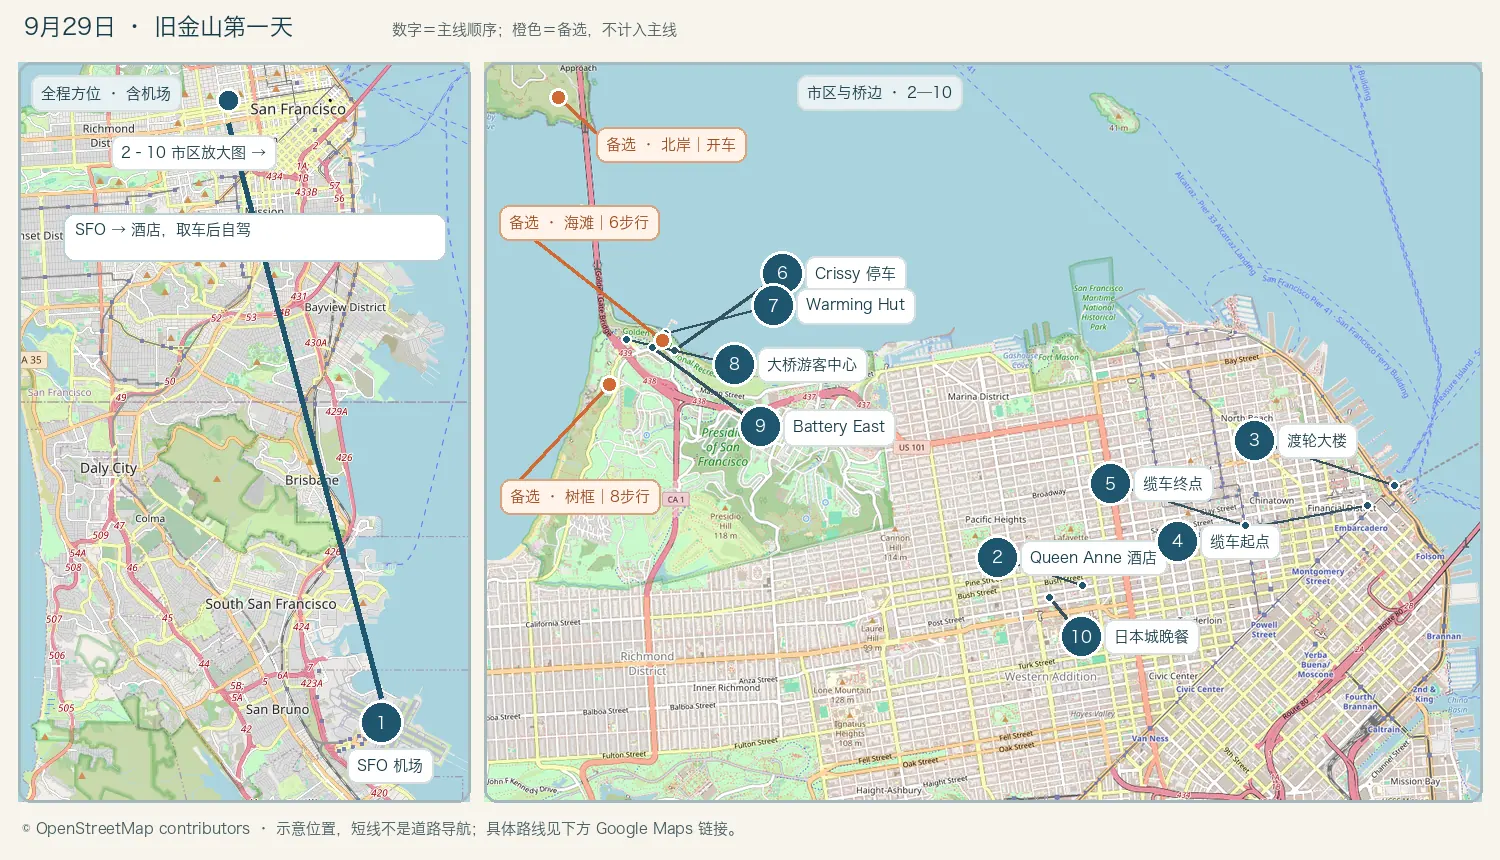
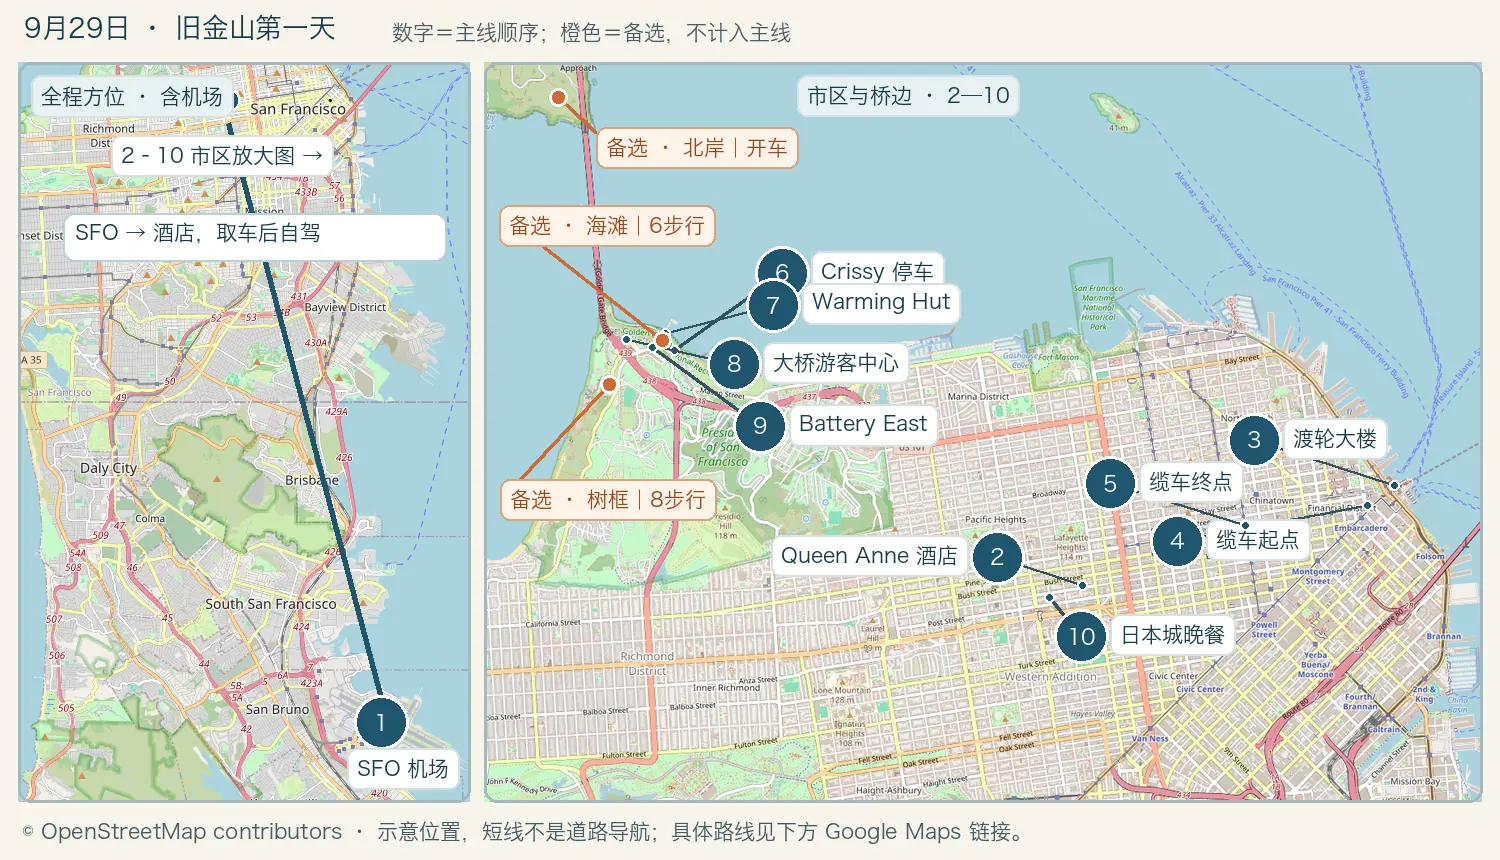
Improve first two route maps on mobile

diff --git a/sf-day2-route.js b/sf-day2-route.js
@@ -47,7 +47,7 @@
   guide.id = 'sf-day2-map';
   guide.setAttribute('aria-label', '九月三十日交通总览与 Google 地图导航');
   guide.innerHTML = `<div class="sf-route-head"><div><h4>第二天 · 地图与交通顺序</h4><p>酒店退房 → Stanford → Palo Alto 午餐 → Apple → Paso Robles 休息 → Cambria 酒店、海边和晚餐。全天自驾，酒店至海边可步行。</p></div></div>
-    <figure class="sf-route-map"><a href="assets/sf-day2-route-map.webp?v=20260924-google-option" target="_blank" rel="noopener" aria-label="放大第二天路线总览图"><img src="assets/sf-day2-route-map.webp?v=20260924-google-option" width="1500" height="860" loading="lazy" decoding="async" alt="9月30日从旧金山到坎布里亚的1至8号站点位置；硅谷和坎布里亚另有放大图；橙色G为可选Google游客区"></a><figcaption>1—8 按抵达顺序；橙色 G 是可选 Google Visitor Experience，不纳入固定时间表。线只表示方位，不是实际道路。</figcaption></figure>
+    <figure class="sf-route-map"><a class="sf-route-desktop-map" href="assets/sf-day2-route-map.webp?v=20260927-readable" target="_blank" rel="noopener" aria-label="放大第二天桌面路线图"><img src="assets/sf-day2-route-map.webp?v=20260927-readable" width="1500" height="860" loading="lazy" decoding="async" alt="9月30日从旧金山到坎布里亚的1至8号站点位置；硅谷和坎布里亚另有放大图；橙色G为可选Google游客区"></a><a class="sf-route-mobile-map" href="assets/sf-day2-route-mobile.webp?v=20260927-readable" target="_blank" rel="noopener" aria-label="放大第二天手机路线图"><img src="assets/sf-day2-route-mobile.webp?v=20260927-readable" width="750" height="1390" loading="lazy" decoding="async" alt="9月30日手机分段地图：全程、硅谷和坎布里亚；橙色 G 是可选 Google 游客区"></a><figcaption>手机版把相邻点合并标记，名称见下方列表。橙色 G 是可选 Google Visitor Experience；直线只示方位，具体导航用下方链接。</figcaption></figure>
     <ol class="sf-route-stops" aria-label="第二天站点顺序">${stops.map(([number, name, query]) => `<li><span class="sf-route-letter">${number}</span><a href="${search(query)}" target="_blank" rel="noopener">${name} ↗</a></li>`).join('')}</ol>
     <div class="sf-day2-choice"><h5>Apple 后现场二选一</h5><div class="sf-day2-choice-grid"><div class="sf-day2-choice-card"><b>A · 按原路线直行</b><p>Apple → Target Paso Robles（第 5 站）。给 Cambria 入住和海边留出更多余量。</p><a href="${directions(apple, target)}" target="_blank" rel="noopener">打开直达导航 ↗</a></div><div class="sf-day2-choice-card optional"><b>B · 途经 Google</b><p>Apple → Google Visitor Experience → Target Paso Robles。Google 在 Apple 北面，需要折返；若已晚于计划离开 Apple 的 12:40，优先 A。</p><a href="${directions(apple, target, google)}" target="_blank" rel="noopener">打开经 Google 导航 ↗</a></div></div><p>两个链接终点都是第 5 站 Target；从 Target 到酒店用下方 5→6 链接。若实际为 Tesla，Paso Robles 休息点改用车载导航选择超充，不能把 Target 当充电站。</p></div>
     <div class="sf-route-links"><h5>其余分段导航</h5><div class="segments">${legs.map(([name, url]) => `<a href="${url}" target="_blank" rel="noopener">${name} ↗</a>`).join('')}</div><p class="sf-route-caveat">Google 官方游客区：2000 N Shoreline Blvd，周三商店 09:00—19:00，咖啡厅／其他游客空间 09:00—18:00；免费停车可选 Shoreline Amphitheatre Lot C，步行约 4 分钟，演出日 Lot C 可能关闭。此处是开放游客空间，不是员工办公园区参观。<a href="${search(googleParking)}" target="_blank" rel="noopener">停车地图 ↗</a> <a href="https://visit.withgoogle.com/plan-your-visit/" target="_blank" rel="noopener">Google 官方信息 ↗</a></p></div>`;

diff --git a/sf-day1-route.js b/sf-day1-route.js
@@ -58,7 +58,7 @@
   guide.id = 'sf-day1-map';
   guide.setAttribute('aria-label', '旧金山落地日交通总览与 Google 地图导航');
   guide.innerHTML = `<div class="sf-route-head"><div><h4>第一天 · 地图与交通顺序</h4><p>机场至市区先取车，市中心改用网约车与缆车，傍晚再自驾去金门大桥。</p></div></div>
-    <figure class="sf-route-map"><a href="assets/sf-day1-route-map.webp?v=20260927-photo-geo" target="_blank" rel="noopener" aria-label="放大第一天路线总览图"><img src="assets/sf-day1-route-map.webp?v=20260927-photo-geo" width="1500" height="860" loading="lazy" decoding="async" alt="旧金山第一天 1 至 10 号主线站点，以及海滩、Golden Gate Overlook、Battery Spencer 等橙色备选标记"></a><figcaption>1—10 为主线顺序；橙色标记为备选。海滩与 Golden Gate Overlook 从已有停车点步行，Battery Spencer 须过桥并重新停车。图只示意位置，导航用下方分段链接。</figcaption></figure>
+    <figure class="sf-route-map"><a class="sf-route-desktop-map" href="assets/sf-day1-route-map.webp?v=20260927-readable" target="_blank" rel="noopener" aria-label="放大第一天桌面路线图"><img src="assets/sf-day1-route-map.webp?v=20260927-readable" width="1500" height="860" loading="lazy" decoding="async" alt="旧金山第一天 1 至 10 号主线站点，以及海滩、Golden Gate Overlook、Battery Spencer 等橙色备选标记"></a><a class="sf-route-mobile-map" href="assets/sf-day1-route-mobile.webp?v=20260927-readable" target="_blank" rel="noopener" aria-label="放大第一天手机路线图"><img src="assets/sf-day1-route-mobile.webp?v=20260927-readable" width="750" height="1420" loading="lazy" decoding="async" alt="旧金山第一天手机分段地图：机场、市区和桥边；蓝色编号为主线，橙色 A、B、C 为拍照备选"></a><figcaption>手机版把相邻点合并标记，名称见下方列表。橙色 A 海滩从 6 步行，B 树框大桥从 8 步行，C Battery Spencer 需开车过桥并重新停车。直线只示方位。</figcaption></figure>
     <div class="sf-route-key"><span style="--swatch:#2876b7"><i></i>网约车</span><span style="--swatch:#218278"><i></i>自驾</span><span style="--swatch:#dc7138"><i></i>步行</span><span style="--swatch:#8051a8"><i></i>缆车</span></div>
     <ol class="sf-route-stops" aria-label="第一天站点顺序">${stops.map(([number, name, query, short]) => `<li><span class="sf-route-letter">${number}</span><a href="${mapSearch(query)}" target="_blank" rel="noopener" aria-label="${number} ${name.replaceAll('&', '&amp;')} 的地图">${short} ↗</a></li>`).join('')}</ol>
     <div class="sf-route-links"><h5>分段打开 Google Maps</h5><div class="segments">${legs.map(([name, url]) => `<a href="${url.replaceAll('&', '&amp;')}" target="_blank" rel="noopener">${name} ↗</a>`).join('')}<a href="https://www.sfmta.com/routes/california-cable-car" target="_blank" rel="noopener">缆车官方线路 ↗</a></div><p class="sf-route-caveat">10:30 为现有路书的计划落地时间，尚未核到两人的电子客票。入境、取车和路况会改变后续时间；若晚到，先删室内逛店，再删缆车与 Warming Hut。Google Maps 的公交方案未必固定显示缆车，乘车以前往 SFMTA 实时信息为准。</p></div>`;

diff --git a/sf-day1-route.css b/sf-day1-route.css
@@ -1,17 +1,18 @@
 .sf-route-guide{margin:16px 0 22px;border:1px solid var(--line);border-radius:18px;overflow:hidden;background:#fffefa;box-shadow:0 4px 18px rgba(20,37,54,.04)}
 .sf-route-head{display:flex;justify-content:space-between;gap:16px;padding:17px 19px 10px;align-items:start}
-.sf-route-head h4{font-size:20px;margin:0 0 4px}.sf-route-head p{font-size:13px;color:var(--muted);margin:0}
+.sf-route-head h4{font-size:20px;margin:0 0 4px}.sf-route-head p{font-size:14px;color:var(--muted);margin:0}
 .sf-route-map{margin:0}.sf-route-map img{display:block;width:100%;height:auto;background:#dfebe7}
-.sf-route-map figcaption{padding:8px 16px;font-size:11px;color:var(--muted);border-bottom:1px solid var(--line)}
+.sf-route-mobile-map{display:none}
+.sf-route-map figcaption{padding:10px 16px;font-size:13px;line-height:1.55;color:var(--muted);border-bottom:1px solid var(--line)}
 .sf-route-key{display:flex;flex-wrap:wrap;gap:8px 18px;padding:11px 18px;font-size:12px;color:var(--muted);border-bottom:1px solid var(--line)}
 .sf-route-key span{display:inline-flex;align-items:center;gap:6px}.sf-route-key i{width:12px;height:4px;border-radius:3px;background:var(--swatch)}
 .sf-route-stops{list-style:none;margin:0;padding:10px 18px;display:flex;flex-wrap:wrap;gap:7px;border-bottom:1px solid var(--line)}
 .sf-route-stops li{display:inline-flex;align-items:center;gap:6px;padding:3px 9px 3px 3px;border:1px solid #d6e0e1;border-radius:999px;background:#fff;white-space:nowrap}
-.sf-route-letter{width:23px;height:23px;border-radius:50%;background:#183b4a;color:#fff;font-size:11px;font-weight:800;display:grid;place-items:center}
-.sf-route-stops a{font-size:12px;font-weight:700}
+.sf-route-letter{width:25px;height:25px;border-radius:50%;background:#183b4a;color:#fff;font-size:13px;font-weight:800;display:grid;place-items:center}
+.sf-route-stops a{font-size:14px;font-weight:700}
 .sf-route-stops a,.sf-route-links a{color:#285e80;text-decoration:underline;text-underline-offset:2px}
 .sf-route-links{padding:15px 18px 18px;background:#f6f5ef}.sf-route-links h5{margin:0 0 9px;font-size:13px}.sf-route-links .segments{display:flex;flex-wrap:wrap;gap:8px}.sf-route-links .segments a{display:inline-block;padding:6px 10px;border:1px solid #cbd9db;border-radius:999px;background:#fff;text-decoration:none;font-size:12px;font-weight:700}
 .sf-route-caveat{font-size:12px;color:#785b32;margin:11px 0 0}
 .sf-route-optional{margin:0 18px 17px;border:1px solid #d8e0e2;border-radius:12px;background:#f4f8f7;padding:11px 13px}
 .sf-route-optional summary{cursor:pointer;font-size:13px;font-weight:800}.sf-route-optional p{font-size:12px;color:var(--muted);margin:8px 0}.sf-route-optional a{font-size:12px;color:#285e80;text-underline-offset:2px}.sf-route-optional .segments{display:flex;flex-wrap:wrap;gap:7px 13px}
-@media(max-width:700px){.sf-route-head{display:block}.sf-route-stops{padding:9px 12px;gap:6px}.sf-route-stops li{padding:2px 8px 2px 2px}}
+@media(max-width:700px){.sf-route-head{display:block}.sf-route-desktop-map{display:none}.sf-route-mobile-map{display:block}.sf-route-stops{padding:9px 12px;gap:6px}.sf-route-stops li{padding:3px 9px 3px 3px}}

diff --git a/index.html b/index.html
@@ -7,8 +7,8 @@
   <meta name="theme-color" content="#12283a">
   <title>2026 美国蜜月之旅</title>
   <link rel="stylesheet" href="dining-plan.css">
-  <link rel="stylesheet" href="sf-day1-route.css?v=20260924-compact">
-  <link rel="stylesheet" href="sf-day2-route.css?v=20260924-google-option">
+  <link rel="stylesheet" href="sf-day1-route.css?v=20260927-readable">
+  <link rel="stylesheet" href="sf-day2-route.css?v=20260927-readable">
   <style>
     :root{
       --ink:#152536;--muted:#667585;--paper:#f4f1ea;--card:#fffefa;--line:#dcd5ca;
@@ -908,8 +908,8 @@
     // Date-aware navigation is initialized by roadbook-layout.js.
   </script>
   <script src="roadbook-layout.js?v=20260927-photo-final2"></script>
-  <script src="sf-day1-route.js?v=20260927-sf-photo-final2"></script>
-  <script src="sf-day2-route.js?v=20260924-walk-legs"></script>
+  <script src="sf-day1-route.js?v=20260927-readable"></script>
+  <script src="sf-day2-route.js?v=20260927-readable"></script>
   <script src="daily-routes-data.js?v=20260927-geo"></script>
   <script src="daily-routes.js?v=20260927-geo"></script>
   <script src="payment-guide.js?v=20260924-museum-ticket"></script>
